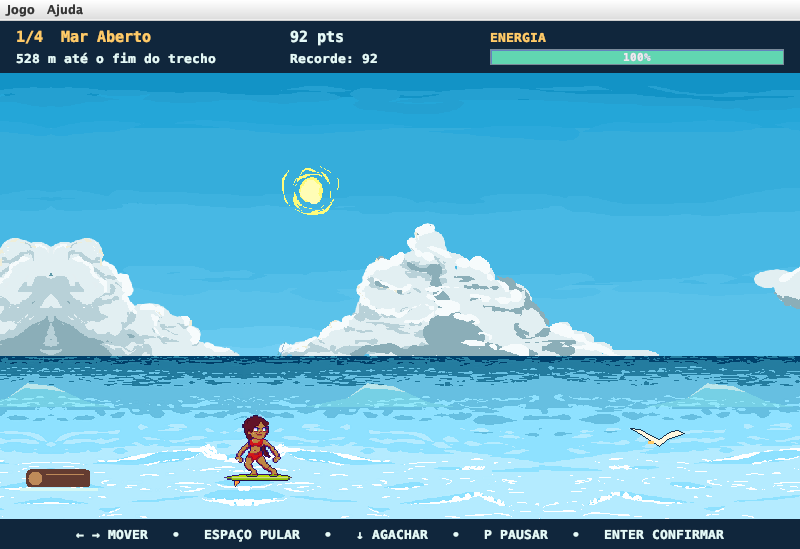
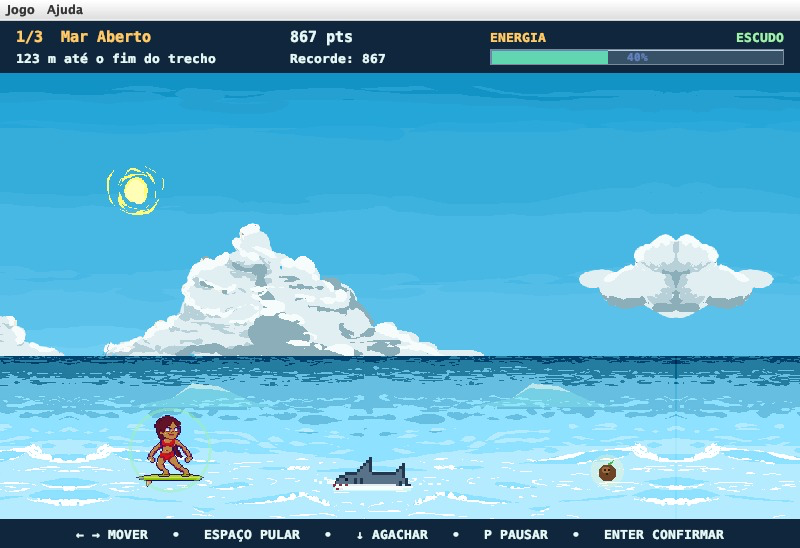
Lost in the Waves: 3 fases, itens reconhecíveis e bola na praia
- Remove a fase Águas Perigosas (tubarão e baleia passam para as outras)
- Itens sem a caixa escura: coco, garrafa de água, moeda girando e escudo
- A bola de praia sai do mar e enfeita a areia na praia final e no epílogo
- Print da tela principal atualizado

diff --git a/src/view/SpriteRenderer.java b/src/view/SpriteRenderer.java
@@ -282,40 +282,76 @@ public final class SpriteRenderer {
 		}
 	}
 
-	public static void drawItem(Graphics2D g, Item item) {
+	/**
+	 * Itens desenhados como objetos reconheciveis boiando na agua (sem caixa escura em volta):
+	 * coco, garrafa de agua, moeda de ouro girando e bolha de escudo.
+	 */
+	public static void drawItem(Graphics2D g, Item item, int tick) {
 		int left = (int) item.getX();
-		int y = (int) item.getY();
+		int y = (int) item.getY() + (int) Math.round(Math.sin(tick * 0.12 + left * 0.05) * 2);
 		int size = Item.SIZE;
-		switch (item.getType()) {
-		case BALL:
-			g.drawImage(Assets.BALL, left - 3, y - 3, size + 6, size + 6, null);
-			return;
-		default:
-			g.setColor(new Color(0x183754));
-			g.fillRoundRect(left, y, size, size, 8, 8);
-		}
+		// brilho suave em volta para destacar o item no mar (inclusive na tempestade)
+		g.setColor(new Color(0x55FFF6C8, true));
+		g.fillOval(left - 5, y - 5, size + 10, size + 10);
 		switch (item.getType()) {
 		case WATER:
-			g.setColor(new Color(0x69E7FF));
-			g.fillRect(left + 8, y + 7, 8, 12);
-			g.fillRect(left + 10, y + 4, 4, 3);
+			g.setColor(new Color(0x1E4E8C));
+			g.fillRect(left + 9, y + 1, 6, 4); // tampa
+			g.setColor(new Color(0xBFEFFF));
+			g.fillRect(left + 10, y + 5, 4, 3); // gargalo
+			g.fillRoundRect(left + 6, y + 8, 12, 15, 4, 4); // garrafa
+			g.setColor(new Color(0x3FB6F0));
+			g.fillRoundRect(left + 7, y + 13, 10, 9, 3, 3); // agua dentro
+			g.setColor(new Color(0xFFFFFF));
+			g.fillRect(left + 8, y + 9, 2, 6); // reflexo
+			g.setColor(new Color(0xE84855));
+			g.fillRect(left + 6, y + 12, 12, 2); // rotulo
 			break;
 		case SHIELD:
+			g.setColor(new Color(0x7FA0F1AA, true));
+			g.fillOval(left, y, size, size);
 			g.setColor(new Color(0xA0F1AA));
-			g.fillPolygon(new int[] { left + 5, left + 19, left + 17, left + 12, left + 7 },
-					new int[] { y + 6, y + 6, y + 15, y + 20, y + 15 }, 5);
+			g.setStroke(new BasicStroke(2));
+			g.drawOval(left, y, size, size);
+			g.setStroke(new BasicStroke(1));
+			g.setColor(new Color(0x2E7D4F));
+			g.fillPolygon(new int[] { left + 6, left + 18, left + 17, left + 12, left + 7 },
+					new int[] { y + 6, y + 6, y + 14, y + 19, y + 14 }, 5);
+			g.setColor(new Color(0xFFFFFF));
+			g.fillRect(left + 5, y + 4, 3, 3);
 			break;
 		case COIN:
+			int w = Math.max(3, (int) Math.round(Math.abs(Math.cos(tick * 0.09)) * 18));
+			int cx = left + size / 2;
+			g.setColor(new Color(0xB9771F));
+			g.fillOval(cx - w / 2, y + 3, w, 18);
 			g.setColor(new Color(0xFFD166));
-			g.fillOval(left + 5, y + 5, 14, 14);
-			g.setColor(new Color(0x9E622C));
-			g.drawOval(left + 8, y + 8, 8, 8);
+			g.fillOval(cx - w / 2 + 1, y + 3, Math.max(2, w - 3), 16);
+			if (w > 8) {
+				g.setColor(new Color(0xB9771F));
+				g.fillRect(cx - 1, y + 7, 3, 9);
+				g.setColor(new Color(0xFFF4C2));
+				g.fillRect(cx - w / 2 + 3, y + 6, 2, 4);
+			}
 			break;
-		default: // COCONUT
-			g.setColor(new Color(0xAE774B));
-			g.fillOval(left + 5, y + 5, 14, 14);
-			g.setColor(new Color(0x593726));
-			g.drawOval(left + 8, y + 8, 8, 8);
+		default: // COCO
+			g.setColor(new Color(0x6E4426));
+			g.fillOval(left + 3, y + 5, 18, 17);
+			g.setColor(new Color(0x9C6A3E));
+			g.fillOval(left + 6, y + 7, 9, 7);
+			g.setColor(new Color(0x2E1B10));
+			g.fillRect(left + 9, y + 10, 2, 2);
+			g.fillRect(left + 13, y + 10, 2, 2);
+			g.fillRect(left + 11, y + 14, 2, 2);
+			g.setColor(new Color(0x4CAF50)); // folhinha
+			g.fillPolygon(new int[] { left + 12, left + 20, left + 15 }, new int[] { y + 5, y, y + 6 }, 3);
 		}
+	}
+
+	/** Bola de praia (imagem fornecida pelo grupo) parada na areia, com sombra. */
+	public static void drawBeachBall(Graphics2D g, int x, int base, int size) {
+		g.setColor(new Color(0x45A0752F, true));
+		g.fillOval(x - 2, base - 4, size + 4, 8);
+		g.drawImage(Assets.BALL, x, base - size, size, size, null);
 	}
 }

diff --git a/src/model/GameModel.java b/src/model/GameModel.java
@@ -24,10 +24,9 @@ public class GameModel {
 	private static final int BEACH_DISTANCE = 540;
 
 	private static final Stage[] STAGES = {
-			new Stage("Mar Aberto", 5.0, 104, ObstacleType.ROCK, ObstacleType.LOG, ObstacleType.GULL, ObstacleType.BUOY),
-			new Stage("Águas Perigosas", 6.4, 91, ObstacleType.SHARK, ObstacleType.GULL, ObstacleType.WHALE, ObstacleType.LOG),
-			new Stage("Tempestade", 7.7, 82, ObstacleType.WHIRLPOOL, ObstacleType.WAVE, ObstacleType.GULL, ObstacleType.SHARK),
-			new Stage("A Última Onda", 9.0, 75, ObstacleType.WAVE, ObstacleType.WHALE, ObstacleType.GULL, ObstacleType.WHIRLPOOL, ObstacleType.SHARK) };
+			new Stage("Mar Aberto", 5.0, 104, ObstacleType.ROCK, ObstacleType.LOG, ObstacleType.GULL, ObstacleType.BUOY, ObstacleType.SHARK),
+			new Stage("Tempestade", 7.0, 86, ObstacleType.WHIRLPOOL, ObstacleType.WAVE, ObstacleType.GULL, ObstacleType.SHARK, ObstacleType.WHALE),
+			new Stage("A Última Onda", 8.6, 76, ObstacleType.WAVE, ObstacleType.WHALE, ObstacleType.GULL, ObstacleType.WHIRLPOOL, ObstacleType.SHARK) };
 
 	private final Surfer surfer = new Surfer();
 	private final List<Obstacle> obstacles = new ArrayList<>();
@@ -302,7 +301,7 @@ public class GameModel {
 	}
 
 	public boolean isStormy() {
-		return level >= 3 && getDistance() < BEACH_DISTANCE + 5;
+		return level >= 2 && getDistance() < BEACH_DISTANCE + 5;
 	}
 
 	public boolean isBeachVisible() {

diff --git a/src/view/GamePanel.java b/src/view/GamePanel.java
@@ -103,7 +103,7 @@ public class GamePanel extends JPanel {
 			SpriteRenderer.drawObstacle(g, obstacle, model.getTicks());
 		}
 		for (Item item : model.getItems()) {
-			SpriteRenderer.drawItem(g, item);
+			SpriteRenderer.drawItem(g, item, model.getTicks());
 		}
 		if (model.isSurferVisible()) {
 			drawSurfer(g);
@@ -349,6 +349,7 @@ public class GamePanel extends JPanel {
 		final int hop = 24;
 		final int walk = 96;
 		drawCrab(g, t);
+		SpriteRenderer.drawBeachBall(g, 212, 440, 34);
 		double wash = Math.max(0, Math.min(1, (t - arrive - hop) / 60.0));
 		if (t < arrive) {
 			// vem do horizonte em direcao a praia, crescendo conforme se aproxima
@@ -579,6 +580,7 @@ public class GamePanel extends JPanel {
 		g.fillOval(shore + 236, 402, 74, 12);
 		g.drawImage(Assets.PALM, shore + 244, 294, 54, 116, null);
 		drawUmbrella(g, shore + 420, 418);
+		SpriteRenderer.drawBeachBall(g, shore + 150, 432, 30);
 		g.drawImage(Assets.CRAB, (int) (shore + 360 + Math.sin(t * 0.05) * 22), 412, 35, 24, null);
 	}
 

diff --git a/src/model/ItemType.java b/src/model/ItemType.java
@@ -5,8 +5,7 @@ public enum ItemType {
 	COCONUT("Coco", 25, 0, false),
 	WATER("Agua", 15, 0, false),
 	COIN("Moeda", 0, 100, true),
-	SHIELD("Escudo", 0, 0, false),
-	BALL("Bola de praia", 0, 250, true);
+	SHIELD("Escudo", 0, 0, false);
 
 	private final String label;
 	private final int energy;

diff --git a/README.md b/README.md
@@ -39,7 +39,7 @@ O menu **Ajuda** mostra os controles e os créditos.
 
 ## Regras
 
-- 4 fases de 600 m: **Mar Aberto**, **Águas Perigosas**, **Tempestade** e **A Última Onda**.
+- 3 fases de 600 m: **Mar Aberto**, **Tempestade** e **A Última Onda**.
   Cada fase é mais rápida que a anterior e a praia aparece no fim da última.
 - Colidir com um obstáculo tira 25 de energia. Com energia 0 é **game over**; ao tentar
   de novo, a fase recomeça com energia cheia e a pontuação do início da fase.
@@ -47,10 +47,11 @@ O menu **Ajuda** mostra os controles e os créditos.
   até a beira, pula da prancha para a areia, caminha até a toalha e comemora.
   A caminhada é montada recortando as pernas do sprite e movendo cada uma alternadamente.
 - Na reta final da última fase a praia surge com água rasa, espuma indo e voltando,
-  areia molhada, vegetação, coqueiro, guarda-sol e caranguejo.
-- Pontuação: distância percorrida, desvios (com bônus de combo), moedas (100) e bola de praia (250).
-- Itens: **coco** (+25 energia), **água** (+15 energia), **moeda**, **bola de praia** e
-  **escudo** (absorve um impacto ou expira após ~6 s).
+  areia molhada, vegetação, coqueiro, guarda-sol, bola de praia e caranguejo.
+- Pontuação: distância percorrida, desvios (com bônus de combo) e moedas (100).
+- Itens (boiando no mar, com um brilho em volta): **coco** (+25 energia), **garrafa de água**
+  (+15 energia), **moeda** (gira) e **escudo** (absorve um impacto ou expira após ~6 s).
+- A bola de praia enviada pelo grupo enfeita a areia, na praia da última fase e na cena final.
 - Obstáculos (desenhados em pixel art no SpriteRenderer): rocha, boia, tronco, gaivota (voa baixo, com sombra na água: agache para
   passar por baixo), tubarão (mais rápido, com barbatana e marola), baleia, onda (quebrando, com espuma e
   respingos animados) e redemoinho (puxa a surfista para o centro).
